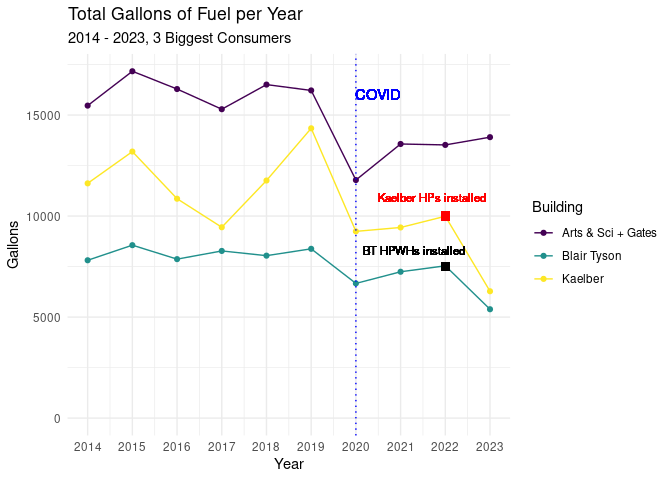
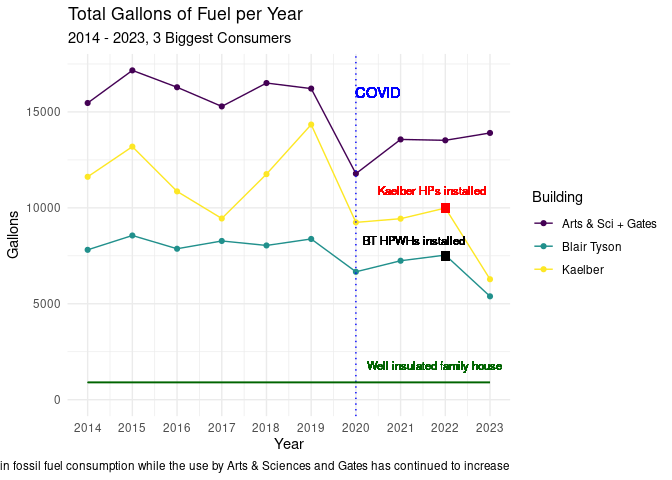
Add normal house copmarison to plot 3

diff --git a/memo/memo.md b/memo/memo.md
@@ -260,7 +260,8 @@ fuels |>
   theme_minimal() +
   labs(title = "Total Gallons of Fuel per Year",
        subtitle = "2014 - 2023, 3 Biggest Consumers",
-       y = "Gallons") +
+       y = "Gallons",
+       caption = "Blair Tyson and Kaelber have seen a descrese in fossil fuel consumption while the use by Arts & Sciences and Gates has continued to increase") +
   scale_x_continuous(breaks = seq(from = 2014, to = 2024, by = 1)) +
   ylim(0, NA) +
   scale_color_viridis_d() +
@@ -269,7 +270,9 @@ fuels |>
   geom_text(aes(x = 2021.3, y = 8300), label = "BT HPWHs installed", colour = "black", size = 3) +
   geom_text(aes(x = 2021.7, y = 10900), label = "Kaelber HPs installed", colour = "red", size = 3) +
   geom_point(aes(x = 2022, y = 10000), color = "red", size = 3, shape = 15) +
-  geom_point(aes(x = 2022, y = 7500), color = "black", size = 3, shape = 15)
+  geom_point(aes(x = 2022, y = 7500), color = "black", size = 3, shape = 15) +
+  geom_line(aes(y = 900), color = "darkgreen") +
+  geom_text(aes(x = 2021.75, y = 1800), label = "Well insulated family house", color = "darkgreen", size = 3)
 ```
 
 ![](memo_files/figure-gfm/5_biggest_over_time-1.png)<!-- -->
